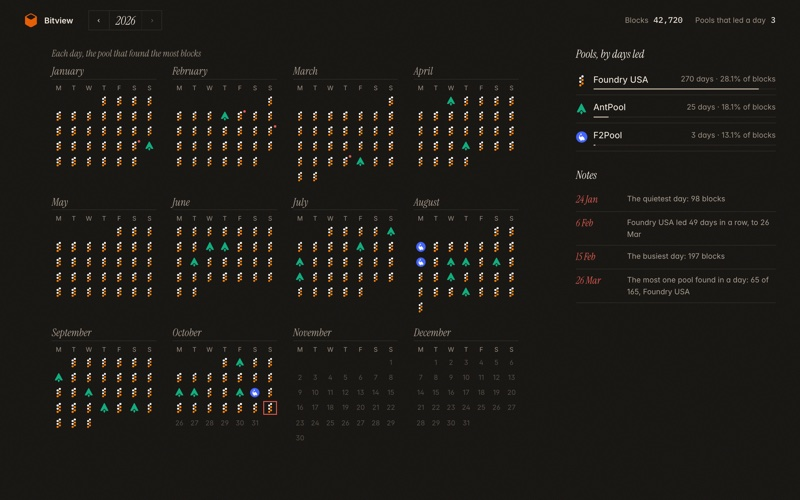
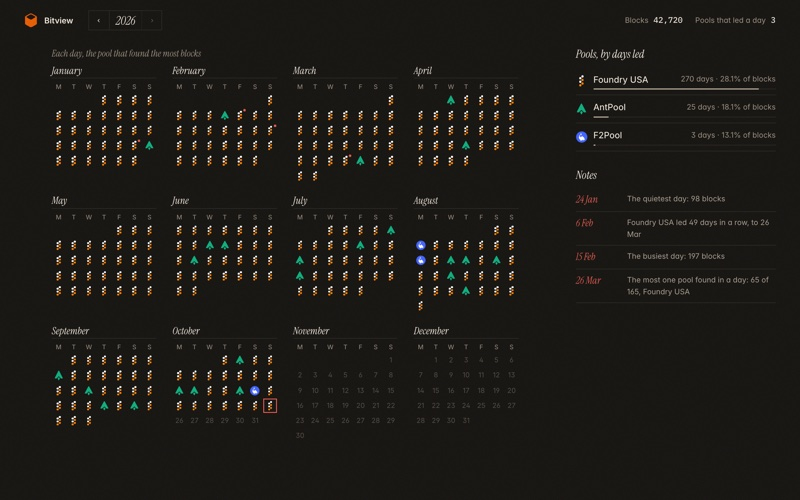
showcases: Calendar's months in the full ink (they anchor each grid), a size below the section titles so the hierarchy holds by size; the home's preview again

diff --git a/showcases/calendar/index.html b/showcases/calendar/index.html
@@ -123,8 +123,8 @@
       }
 
       /* An almanac's headings: the italic serif. */
-      /* Headings in three steps: a section's title in the full ink; the months, many and repeated, softer; the year's
-         caption, faintest. */
+      /* Headings in three steps: a section's title in the full ink; the months in it too, a size smaller; the year's
+         caption, faint. */
       .kicker {
         margin: 0;
         color: var(--ink);
@@ -280,8 +280,8 @@
         margin: 0 0 6px;
         border-bottom: 1px solid var(--line);
         padding-bottom: 2px;
-        color: var(--soft);
-        font: italic 400 17px / 1.15 var(--serif);
+        color: var(--ink);
+        font: italic 400 16px / 1.15 var(--serif);
       }
 
       .week,
